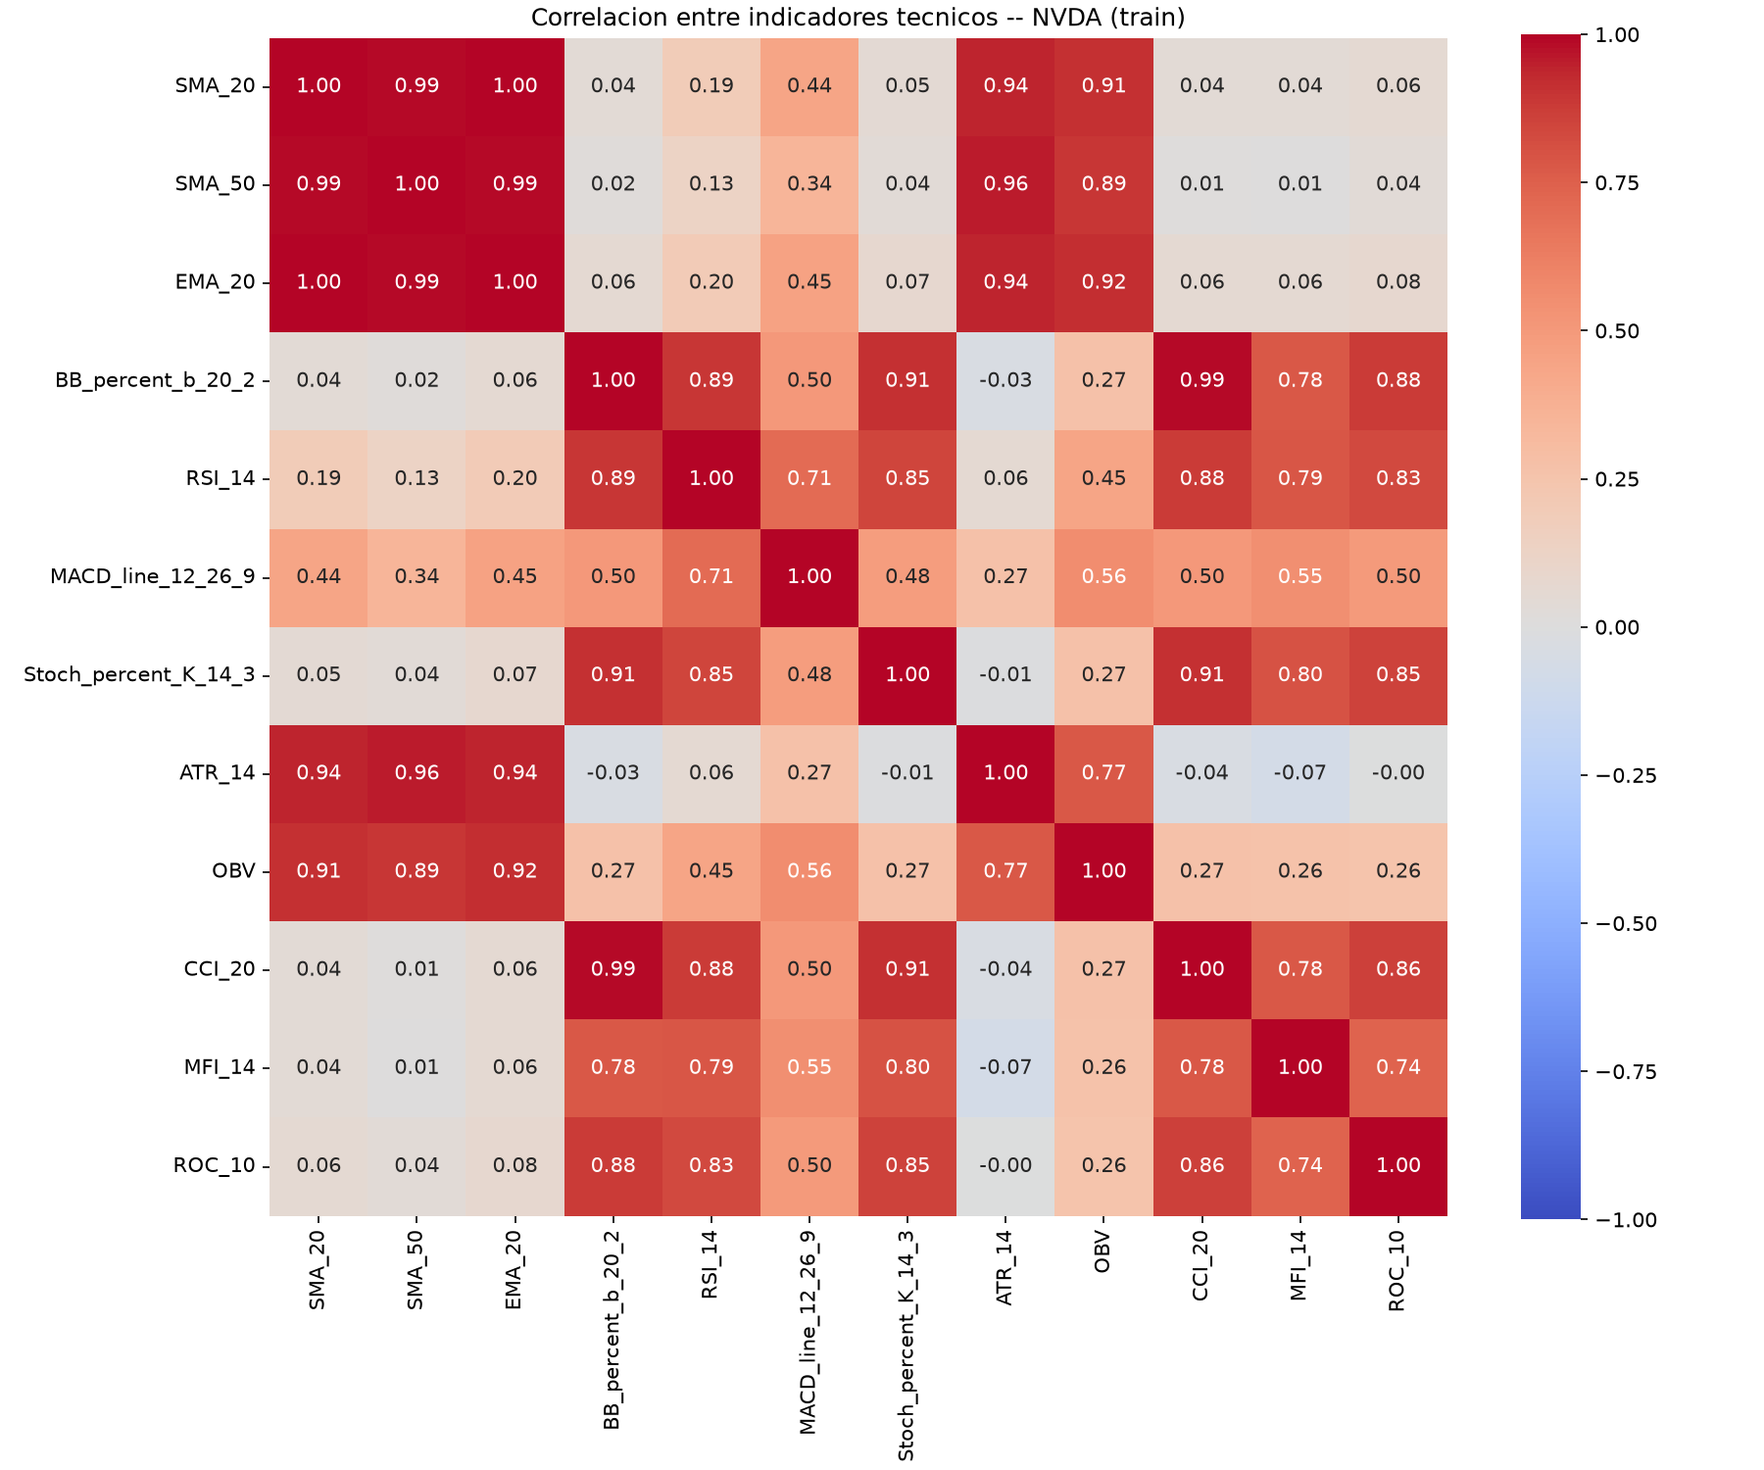
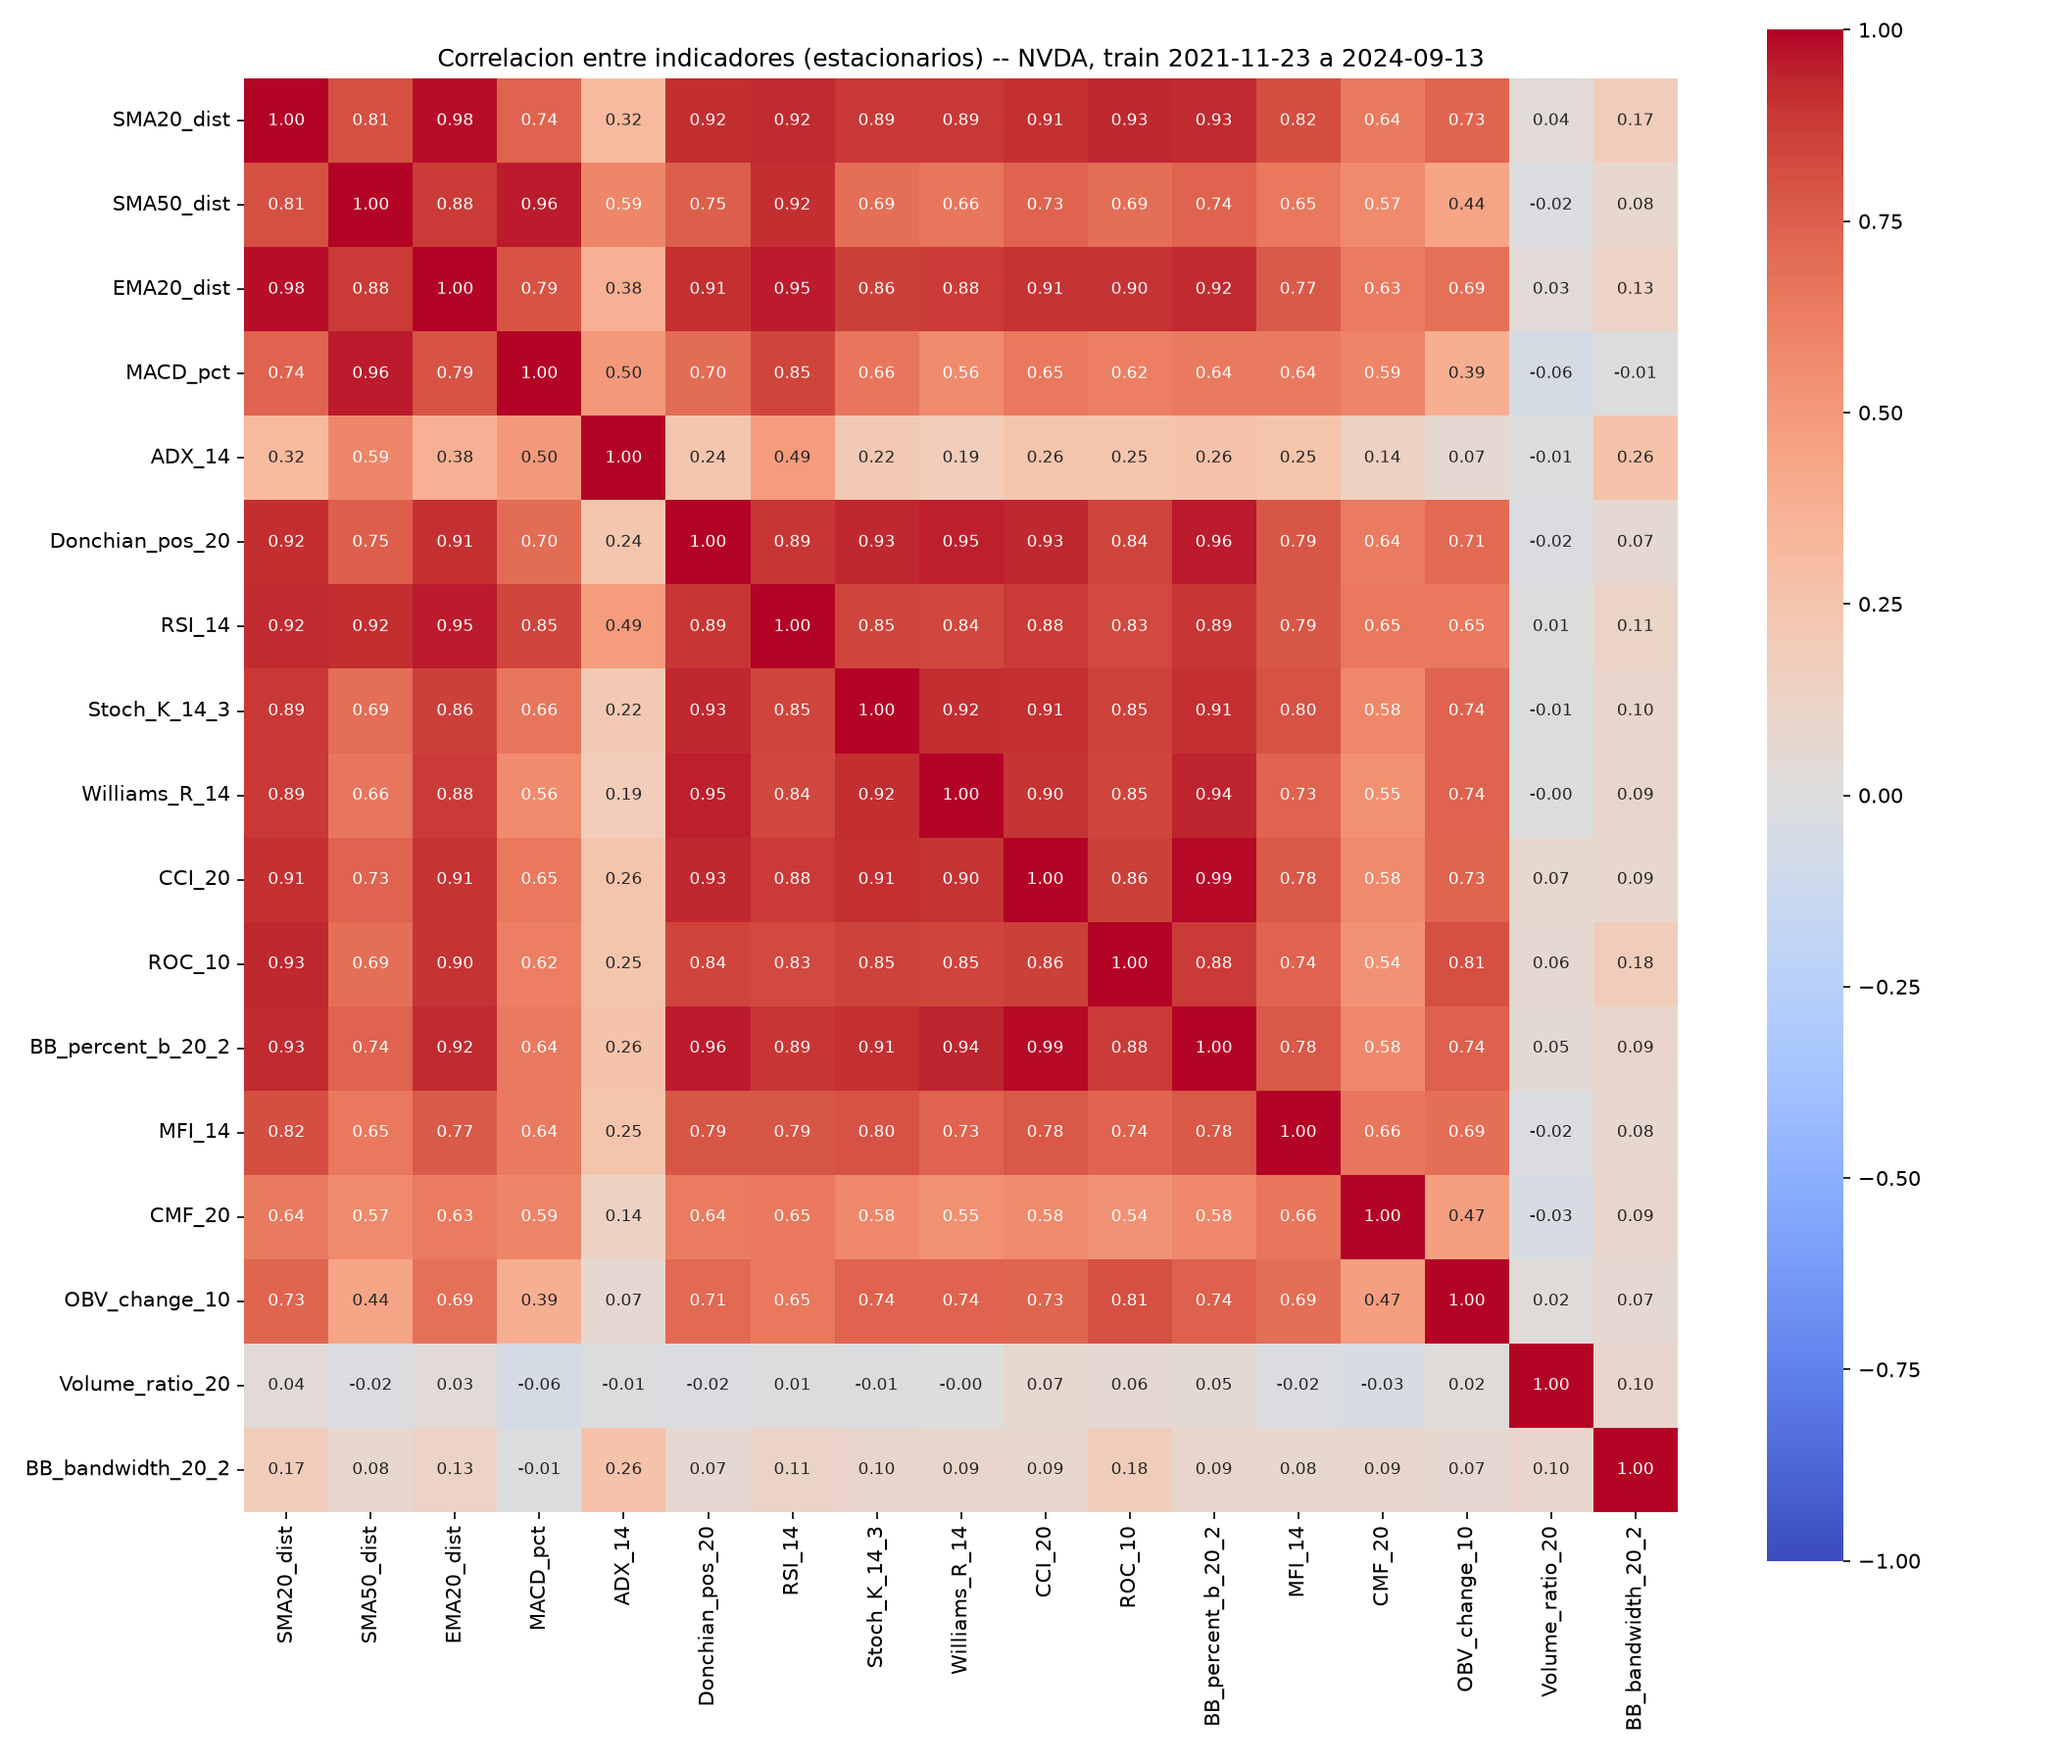
Act 05 step 1: stationary indicator candidates and train-only selection
Add Williams %R, ADX, Chaikin Money Flow, Donchian position, OBV change
ratio, volume ratio, Bollinger bandwidth and price distance to
src/indicators.py, plus build_stationary_indicators with 17 candidates
across trend, momentum, volume and volatility (ATR excluded).
indicator_analysis.py now measures correlation on train only, prints
pairs with |r| >= 0.70 and refreshes the heatmap.

Selected set: ROC(10) + CMF(20) + ADX(14).

diff --git a/src/indicators.py b/src/indicators.py
@@ -61,15 +61,20 @@ def stochastic_percent_k(high: pd.Series, low: pd.Series, close: pd.Series,
     return raw_k.rolling(window=smooth).mean()
 
 
-def atr(high: pd.Series, low: pd.Series, close: pd.Series, window: int = 14) -> pd.Series:
-    """ATR (Average True Range) con suavizado de Wilder."""
+def true_range(high: pd.Series, low: pd.Series, close: pd.Series) -> pd.Series:
+    """True Range: maximo entre High-Low y la distancia de High/Low al cierre previo."""
     prev_close = close.shift(1)
-    true_range = pd.concat([
+    return pd.concat([
         high - low,
         (high - prev_close).abs(),
         (low - prev_close).abs(),
     ], axis=1).max(axis=1)
-    return true_range.ewm(alpha=1 / window, adjust=False, min_periods=window).mean()
+
+
+def atr(high: pd.Series, low: pd.Series, close: pd.Series, window: int = 14) -> pd.Series:
+    """ATR (Average True Range) con suavizado de Wilder."""
+    tr = true_range(high, low, close)
+    return tr.ewm(alpha=1 / window, adjust=False, min_periods=window).mean()
 
 
 def obv(close: pd.Series, volume: pd.Series) -> pd.Series:
@@ -119,6 +124,92 @@ def roc(close: pd.Series, window: int = 10) -> pd.Series:
     return ((close - close.shift(window)) / close.shift(window)) * 100
 
 
+def williams_r(high: pd.Series, low: pd.Series, close: pd.Series, window: int = 14) -> pd.Series:
+    """Williams %R: distancia del cierre al maximo de N barras, en [-100, 0].
+
+    %R = (maximo_N - Close) / (maximo_N - minimo_N) * -100.
+    0 = cierra en el maximo del rango, -100 = cierra en el minimo.
+    """
+    highest_high = high.rolling(window=window).max()
+    lowest_low = low.rolling(window=window).min()
+    return (highest_high - close) / (highest_high - lowest_low) * -100
+
+
+def adx(high: pd.Series, low: pd.Series, close: pd.Series, window: int = 14) -> pd.Series:
+    """ADX (Average Directional Index) con suavizado de Wilder.
+
+    Mide la FUERZA de la tendencia (0-100), no su direccion:
+    +DM/-DM y True Range suavizados -> +DI/-DI -> DX -> ADX (DX suavizado).
+    """
+    up_move = high.diff()
+    down_move = -low.diff()
+    plus_dm = up_move.where((up_move > down_move) & (up_move > 0), 0.0)
+    minus_dm = down_move.where((down_move > up_move) & (down_move > 0), 0.0)
+
+    alpha = 1 / window
+    smoothed_tr = true_range(high, low, close).ewm(alpha=alpha, adjust=False, min_periods=window).mean()
+    plus_di = 100 * plus_dm.ewm(alpha=alpha, adjust=False, min_periods=window).mean() / smoothed_tr
+    minus_di = 100 * minus_dm.ewm(alpha=alpha, adjust=False, min_periods=window).mean() / smoothed_tr
+
+    dx = 100 * (plus_di - minus_di).abs() / (plus_di + minus_di)
+    return dx.ewm(alpha=alpha, adjust=False, min_periods=window).mean()
+
+
+def chaikin_money_flow(high: pd.Series, low: pd.Series, close: pd.Series, volume: pd.Series,
+                       window: int = 20) -> pd.Series:
+    """CMF (Chaikin Money Flow): presion compradora/vendedora ponderada por volumen, en [-1, 1].
+
+    Multiplicador = ((Close - Low) - (High - Close)) / (High - Low): +1 si cierra
+    en el maximo de la barra, -1 si cierra en el minimo.
+    CMF = suma_N(multiplicador * Volume) / suma_N(Volume).
+    """
+    multiplier = ((close - low) - (high - close)) / (high - low)
+    multiplier = multiplier.fillna(0.0)  # barra con High == Low: sin presion
+    money_flow_volume = multiplier * volume
+    return money_flow_volume.rolling(window=window).sum() / volume.rolling(window=window).sum()
+
+
+def donchian_position(high: pd.Series, low: pd.Series, close: pd.Series, window: int = 20) -> pd.Series:
+    """Posicion del cierre dentro del canal de Donchian de N barras, en [0, 1].
+
+    (Close - minimo_N) / (maximo_N - minimo_N). 1 = cierra en maximos de N
+    barras (breakout alcista), 0 = cierra en minimos.
+    """
+    highest_high = high.rolling(window=window).max()
+    lowest_low = low.rolling(window=window).min()
+    return (close - lowest_low) / (highest_high - lowest_low)
+
+
+def obv_change_ratio(close: pd.Series, volume: pd.Series, window: int = 10) -> pd.Series:
+    """Cambio del OBV en N barras, normalizado por el volumen de esas N barras, en [-1, 1].
+
+    (OBV_t - OBV_{t-N}) / suma_N(Volume). Es la pendiente del OBV (estacionaria),
+    no su nivel: +1 si todo el volumen fue en dias de subida, -1 si fue en dias de bajada.
+    """
+    obv_series = obv(close, volume)
+    return obv_series.diff(window) / volume.rolling(window=window).sum()
+
+
+def volume_ratio(volume: pd.Series, window: int = 20) -> pd.Series:
+    """Volumen relativo: Volume / SMA_N(Volume). >1 = volumen por encima de lo normal."""
+    return volume / sma(volume, window)
+
+
+def bollinger_bandwidth(close: pd.Series, window: int = 20, num_std: float = 2) -> pd.Series:
+    """Ancho de las bandas de Bollinger relativo a la media: (superior - inferior) / media.
+
+    Mide volatilidad en terminos relativos al precio (estacionario).
+    """
+    mid = sma(close, window)
+    std = close.rolling(window=window).std()
+    return (2 * num_std * std) / mid
+
+
+def price_distance(close: pd.Series, moving_average: pd.Series) -> pd.Series:
+    """Distancia relativa del precio a una media movil: Close / MA - 1."""
+    return close / moving_average - 1
+
+
 def build_indicators(df: pd.DataFrame) -> pd.DataFrame:
     """Calcula todos los indicadores del lab sobre un DataFrame OHLCV.
 
@@ -147,6 +238,53 @@ def build_indicators(df: pd.DataFrame) -> pd.DataFrame:
         "CCI_20": cci(high, low, close, 20),
         "MFI_14": mfi(high, low, close, volume, 14),
         "ROC_10": roc(close, 10),
+    })
+
+    return indicators.dropna()
+
+
+def build_stationary_indicators(df: pd.DataFrame) -> pd.DataFrame:
+    """Candidatos para la seleccion de features, todos en forma estacionaria.
+
+    Los indicadores de nivel de precio se transforman para que la correlacion
+    no salga alta solo porque todos siguen al precio: SMA/EMA como distancia
+    Close/MA - 1, MACD como fraccion del precio y OBV como cambio normalizado.
+    El ATR queda fuera: solo se usa para SL/TP y sizing.
+
+    Parametros
+    ----------
+    df : pd.DataFrame
+        Debe incluir columnas "Close", "High", "Low", "Volume".
+
+    Regresa
+    -------
+    pd.DataFrame
+        Una columna por candidato (17), sin NaNs (dropeados al final).
+    """
+    close, high, low, volume = df["Close"], df["High"], df["Low"], df["Volume"]
+
+    indicators = pd.DataFrame({
+        # Tendencia / overlays
+        "SMA20_dist": price_distance(close, sma(close, 20)),
+        "SMA50_dist": price_distance(close, sma(close, 50)),
+        "EMA20_dist": price_distance(close, ema(close, 20)),
+        "MACD_pct": macd_line(close, 12, 26) / close,
+        "ADX_14": adx(high, low, close, 14),
+        "Donchian_pos_20": donchian_position(high, low, close, 20),
+        # Momentum / osciladores
+        "RSI_14": rsi(close, 14),
+        "Stoch_K_14_3": stochastic_percent_k(high, low, close, 14, 3),
+        "Williams_R_14": williams_r(high, low, close, 14),
+        "CCI_20": cci(high, low, close, 20),
+        "ROC_10": roc(close, 10),
+        "BB_percent_b_20_2": bollinger_percent_b(close, 20, 2),
+        # Volumen
+        "MFI_14": mfi(high, low, close, volume, 14),
+        "CMF_20": chaikin_money_flow(high, low, close, volume, 20),
+        "OBV_change_10": obv_change_ratio(close, volume, 10),
+        "Volume_ratio_20": volume_ratio(volume, 20),
+        # Volatilidad
+        "BB_bandwidth_20_2": bollinger_bandwidth(close, 20, 2),
     })
 
     return indicators.dropna()

diff --git a/data/indicator_analysis.py b/data/indicator_analysis.py
@@ -1,34 +1,66 @@
 """Calcula indicadores tecnicos sobre NVDA_daily.csv y analiza su correlacion.
 
 Todos los indicadores se calculan manualmente con pandas/numpy (sin la
-libreria ta), en src/indicators.py. La correlacion se mide SOLO sobre el
-periodo de train, para que la seleccion de features no vea test ni
-validation (data snooping). Genera un heatmap (indicator_corr.png) e
-imprime la matriz numerica en consola.
+libreria ta), en src/indicators.py, y entran en forma estacionaria (distancias,
+razones, osciladores acotados) para que la correlacion no refleje solo la
+tendencia comun del precio. El ATR no participa: se reserva para SL/TP y sizing.
+
+La correlacion se mide SOLO sobre el periodo de train, para que la seleccion
+de features no vea test ni validation (data snooping). Genera un heatmap
+(indicator_corr.png), imprime la matriz numerica y la tabla de pares con
+|correlacion| >= CORR_THRESHOLD.
 """
 
 import sys
 from pathlib import Path
 
+import numpy as np
 import pandas as pd
 import seaborn as sns
 import matplotlib.pyplot as plt
 
 sys.path.insert(0, str(Path(__file__).resolve().parents[1]))
 
-from src.indicators import build_indicators  # noqa: E402
-from src.splits import get_split  # noqa: E402
+from src.indicators import build_stationary_indicators  # noqa: E402
+from src.splits import SPLITS, get_split  # noqa: E402
 
 DATA_DIR = Path(__file__).resolve().parent
 INPUT_CSV = DATA_DIR / "NVDA_daily.csv"
 OUTPUT_PNG = DATA_DIR / "indicator_corr.png"
 
+# Umbral de clase: con |r| >= 0.70 dos indicadores miden lo mismo.
+CORR_THRESHOLD = 0.70
 
-def plot_correlation_heatmap(corr: pd.DataFrame, out_path: Path) -> None:
+
+def high_correlation_pairs(corr: pd.DataFrame, threshold: float) -> pd.DataFrame:
+    """Pares de indicadores con |correlacion| >= threshold.
+
+    Parametros
+    ----------
+    corr : pd.DataFrame
+        Matriz de correlacion cuadrada.
+    threshold : float
+        Umbral de |correlacion| para considerar dos indicadores redundantes.
+
+    Regresa
+    -------
+    pd.DataFrame
+        Columnas ind_a, ind_b, corr; un renglon por par (triangulo superior),
+        ordenado por |corr| descendente.
+    """
+    upper = corr.where(np.triu(np.ones(corr.shape, dtype=bool), k=1))
+    pairs = upper.stack().reset_index()
+    pairs.columns = ["ind_a", "ind_b", "corr"]
+    pairs = pairs[pairs["corr"].abs() >= threshold]
+    return pairs.reindex(pairs["corr"].abs().sort_values(ascending=False).index).reset_index(drop=True)
+
+
+def plot_correlation_heatmap(corr: pd.DataFrame, out_path: Path, title: str) -> None:
     """Genera y guarda un heatmap de una matriz de correlacion."""
-    plt.figure(figsize=(12, 10))
-    sns.heatmap(corr, annot=True, fmt=".2f", cmap="coolwarm", vmin=-1, vmax=1, square=True)
-    plt.title("Correlacion entre indicadores tecnicos -- NVDA (train)")
+    plt.figure(figsize=(14, 12))
+    sns.heatmap(corr, annot=True, fmt=".2f", cmap="coolwarm", vmin=-1, vmax=1, square=True,
+                annot_kws={"size": 8})
+    plt.title(title)
     plt.tight_layout()
     plt.savefig(out_path, dpi=150)
     plt.close()
@@ -39,14 +71,25 @@ def main() -> None:
 
     # Se calcula sobre toda la serie (warm-up de las ventanas) y despues se
     # recorta a train; los indicadores son causales, asi que train no ve el futuro.
-    indicators = get_split(build_indicators(df), "train")
+    indicators = get_split(build_stationary_indicators(df), "train")
     corr = indicators.corr()
 
-    pd.set_option("display.width", 160)
-    pd.set_option("display.max_columns", None)
-    print(corr.round(3))
+    # El warm-up de las ventanas (hasta 50 barras) recorta el inicio de train,
+    # porque los datos empiezan el mismo dia que el split.
+    start, end = indicators.index[0].date(), indicators.index[-1].date()
+    print(f"Train (split {SPLITS['train'][0]} a {SPLITS['train'][1]}): con indicadores validos "
+          f"{start} a {end} ({len(indicators)} barras, {indicators.shape[1]} candidatos)\n")
 
-    plot_correlation_heatmap(corr, OUTPUT_PNG)
+    pd.set_option("display.width", 200)
+    pd.set_option("display.max_columns", None)
+    print(corr.round(2))
+
+    pairs = high_correlation_pairs(corr, CORR_THRESHOLD)
+    print(f"\nPares con |correlacion| >= {CORR_THRESHOLD:.2f} ({len(pairs)}):")
+    print(pairs.round(3).to_string(index=False))
+
+    title = f"Correlacion entre indicadores (estacionarios) -- NVDA, train {start} a {end}"
+    plot_correlation_heatmap(corr, OUTPUT_PNG, title)
     print(f"\nHeatmap guardado en {OUTPUT_PNG}")
 
 
